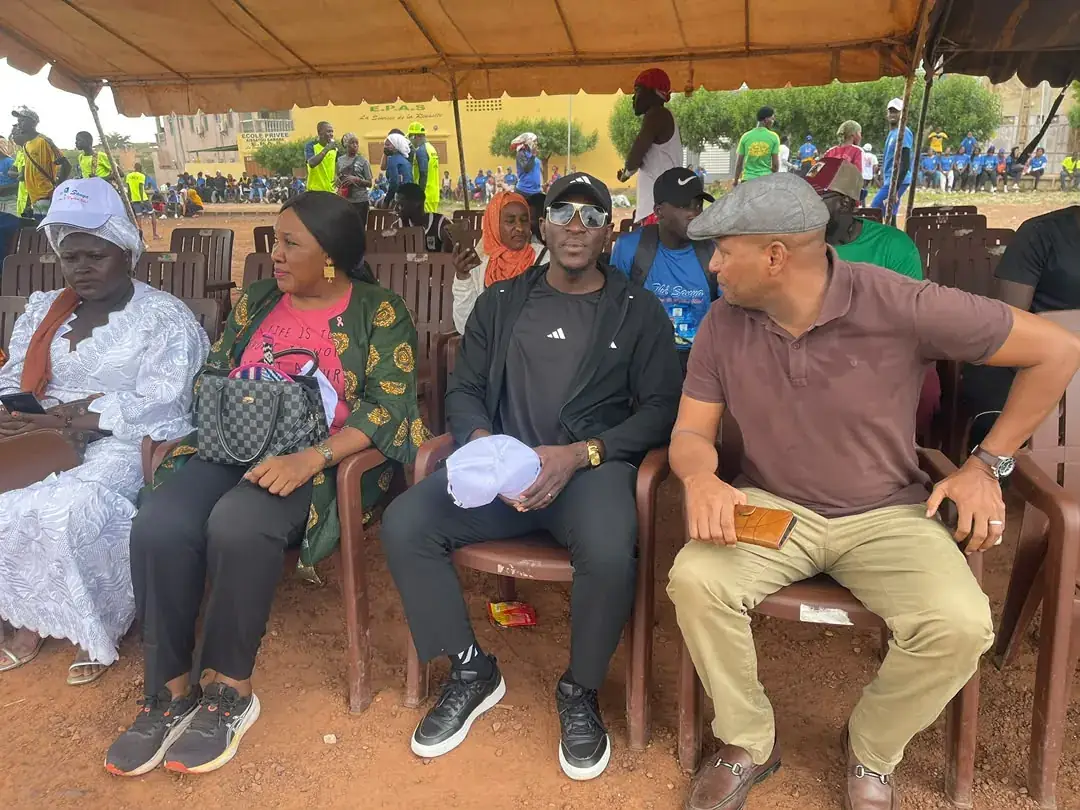
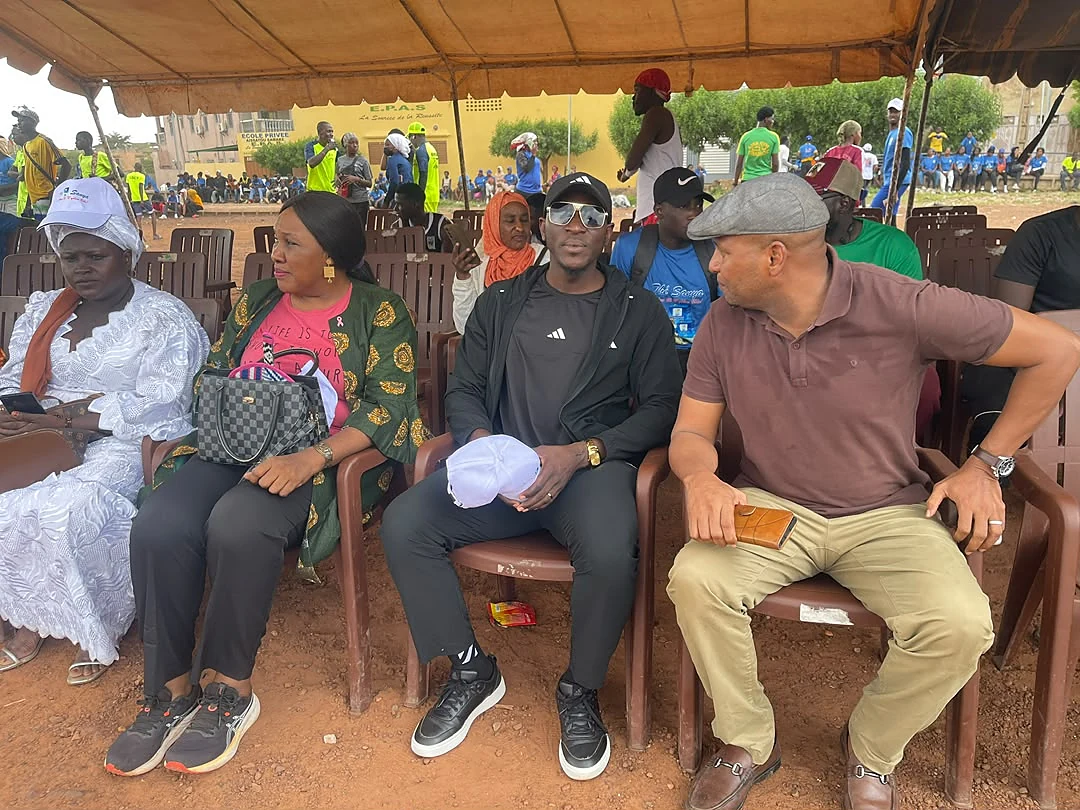
Photos en meilleure qualité
- outils/photos.py : régénère les photos du site depuis les originaux
  (WebP qualité 88, légère netteté ; hero agrandi proprement en 1920 px)
- Photos envoyées depuis l'admin : qualité 86 et légère netteté

diff --git a/outils/photos.py b/outils/photos.py
@@ -1,0 +1,89 @@
+"""Régénère les photos du site depuis les originaux du client, en haute qualité.
+
+    backend/.venv/Scripts/python outils/photos.py
+
+Les originaux (photos WhatsApp, 1080 px max) sont dans assets/ (non versionné).
+Réglages : WebP qualité 88, légère netteté ; photos du hero agrandies proprement
+pour les grands écrans (l'agrandissement ne crée pas de détail, il évite le flou
+de l'agrandissement fait par le navigateur).
+"""
+from pathlib import Path
+
+from PIL import Image, ImageFilter, ImageOps
+
+RACINE = Path(__file__).resolve().parent.parent
+IMG = RACINE / 'backend' / 'static' / 'img'
+A1 = RACINE / 'assets' / 'images' / 'WhatsApp Image 2026-10-26 at '
+A2 = RACINE / 'assets' / 'nouveau28Octobre' / 'WhatsApp Image 2026-10-27 at '
+A3 = RACINE / 'assets' / 'images' / 'WhatsApp Image 2026-10-23 at '
+
+# nom sur le site : (original, recadrage éventuel (gauche, haut, droite, bas) ou 'bandes')
+PHOTOS = {
+    'sc/portrait-1': (f'{A1}10.19.59 (1).jpeg', None),
+    'sc/portrait-2': (f'{A1}10.19.59.jpeg', None),
+    'sc/portrait-3': (f'{A1}10.20.01 (2).jpeg', None),
+    'sc/portrait-4': (f'{A1}10.20.01 (3).jpeg', None),
+    'sc/duo': (f'{A1}10.20.01 (1).jpeg', None),
+    'sc/equipe-tribune': (f'{A1}10.20.01.jpeg', None),
+    'sc/equipe-rayee': (f'{A1}10.20.02 (1).jpeg', None),
+    'sc/stade-tribune': (f'{A1}10.20.02.jpeg', None),
+    'sc/equipe-terre': (f'{A1}10.20.00.jpeg', 'bandes'),
+    'sc/portrait-5': (f'{A2}22.36.33 (1).jpeg', None),
+    'sc/portrait-6': (f'{A2}22.36.33 (2).jpeg', None),
+    'sc/portrait-7': (f'{A2}22.36.33.jpeg', None),
+    'sc/portrait-8': (f'{A2}22.36.34 (2).jpeg', None),
+    'sc/portrait-9': (f'{A2}22.36.34 (4).jpeg', None),
+    'sc/portrait-10': (f'{A2}22.36.34.jpeg', None),
+    'sc/portrait-11': (f'{A2}22.36.36.jpeg', None),
+    'sc/equipe-soir': (f'{A2}22.36.35 (2).jpeg', None),
+    'sc/equipe-quartier': (f'{A2}22.36.35 (3).jpeg', 'bandes'),
+    'reel/stade-26-mars': (f'{A3}12.07.57.jpeg', None),
+    'reel/stade-26-mars-2': (f'{A3}12.07.58.jpeg', None),
+    'reel/bureau-scomplus': (f'{A3}12.08.25.jpeg', 'reduire'),
+    'reel/evenement': (f'{A3}12.15.57.jpeg', None),
+    'reel/femagym': (f'{A3}12.15.57 (1).jpeg', (340, 760, 1300, 1536)),
+}
+# photos affichées en plein écran (hero) : version agrandie + version mobile
+HERO = {'sc/equipe-rayee': 1920, 'sc/equipe-tribune': 1920, 'sc/stade-tribune': 1920}
+
+
+def sans_bandes(im):
+    """Retire les bandes noires (et la barre du téléphone) d'une capture d'écran."""
+    g = im.convert('L')
+    w, h = g.size
+    lignes = [y for y in range(h) if sum(1 for x in range(0, w, 6) if g.getpixel((x, y)) > 30) > (w / 6) * 0.6]
+    return im.crop((0, lignes[0], w, lignes[-1] + 1))
+
+
+def net(im, force=60):
+    return im.filter(ImageFilter.UnsharpMask(radius=1.1, percent=force, threshold=2))
+
+
+def main():
+    total_avant = total_apres = 0
+    for nom, (source, recadrage) in PHOTOS.items():
+        im = ImageOps.exif_transpose(Image.open(source)).convert('RGB')
+        if recadrage == 'bandes':
+            im = sans_bandes(im)
+        elif recadrage == 'reduire':
+            im.thumbnail((1000, 1000), Image.LANCZOS)
+        elif recadrage:
+            im = im.crop(recadrage)
+        dest = IMG / f'{nom}.webp'
+        total_avant += dest.stat().st_size if dest.exists() else 0
+        if nom in HERO:
+            large = HERO[nom]
+            grand = im.resize((large, round(im.height * large / im.width)), Image.LANCZOS)
+            net(grand, 70).save(dest, 'WEBP', quality=86, method=6)
+            mobile = im.copy()
+            mobile.thumbnail((900, 1400), Image.LANCZOS)
+            net(mobile).save(IMG / f'{nom}-m.webp', 'WEBP', quality=86, method=6)
+        else:
+            net(im).save(dest, 'WEBP', quality=88, method=6)
+        total_apres += dest.stat().st_size
+        print(f'{nom:24} {Image.open(dest).size}  {dest.stat().st_size // 1024} Ko')
+    print(f'Total : {total_avant // 1024} Ko -> {total_apres // 1024} Ko')
+
+
+if __name__ == '__main__':
+    main()

diff --git a/backend/core/medias.py b/backend/core/medias.py
@@ -1,6 +1,6 @@
 """Allègement des médias envoyés depuis l'espace admin.
 
-- Photos et logos : réduits et convertis en WebP au moment de l'enregistrement.
+- Photos et logos : réduits et convertis en WebP (qualité 86, légère netteté) à l'enregistrement.
 - Vidéos : réencodées en tâche de fond par ffmpeg (640 px, son mono), avec une
   image d'aperçu tirée de la vidéo. Le site reste utilisable pendant ce temps.
 """
@@ -14,7 +14,7 @@ from pathlib import Path
 
 from django.core.files.base import ContentFile
 from django.db import close_old_connections
-from PIL import Image, ImageOps
+from PIL import Image, ImageFilter, ImageOps
 
 log = logging.getLogger('core')
 
@@ -34,8 +34,10 @@ def alleger_image(champ, max_px=1200):
     garde_transparence = im.mode in ('RGBA', 'LA', 'P')
     im = im.convert('RGBA' if garde_transparence else 'RGB')
     im.thumbnail((max_px, max_px), Image.LANCZOS)
+    if im.mode == 'RGB':   # légère netteté (pas sur les logos transparents)
+        im = im.filter(ImageFilter.UnsharpMask(radius=1.1, percent=60, threshold=2))
     buf = BytesIO()
-    im.save(buf, 'WEBP', quality=78, method=6)
+    im.save(buf, 'WEBP', quality=86, method=6)
     nom = Path(champ.name).stem[:60] + '.webp'
     champ.save(nom, ContentFile(buf.getvalue()), save=False)
 
@@ -72,7 +74,7 @@ def _preparer(video_id):
             im = Image.open(BytesIO(png)).convert('RGB')
             im.thumbnail((640, 640))
             buf = BytesIO()
-            im.save(buf, 'WEBP', quality=70)
+            im.save(buf, 'WEBP', quality=82)
             v.miniature.save(f'{Path(v.fichier.name).stem}.webp', ContentFile(buf.getvalue()), save=False)
         v.etat = 'pret'
         v.save(update_fields=['fichier', 'miniature', 'etat'])

diff --git a/backend/core/espace.py b/backend/core/espace.py
@@ -61,7 +61,7 @@ def joueur_form(request, pk=None):
         if form.is_valid() and etapes.is_valid() and langues.is_valid():
             with transaction.atomic():
                 j = form.save(commit=False)
-                alleger_image(j.photo, 900)
+                alleger_image(j.photo, 1200)
                 alleger_image(j.club_logo, 400)
                 j.save()
                 etapes.instance = langues.instance = j
